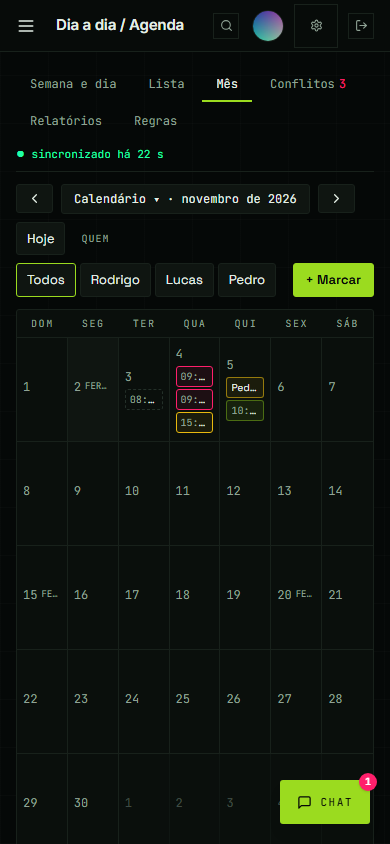
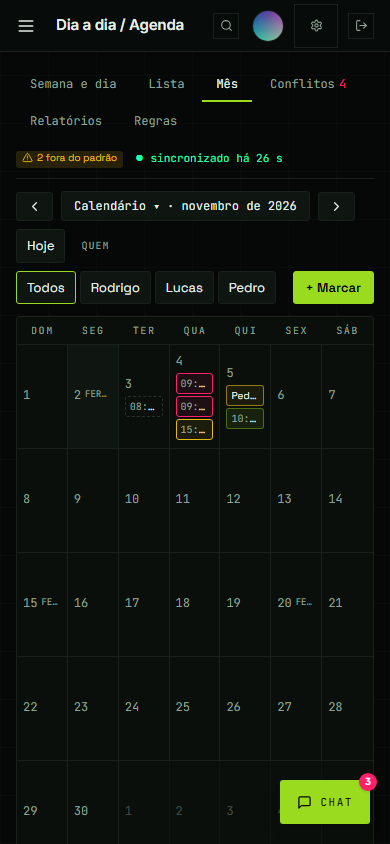
Agenda v2 · e2e de dia: o desfecho pelo que o Google recebeu, o volume atípico registrado, o espelho refaz a janela depois do dublê zerado; RESULTADO com o achado do volume_atipico

diff --git a/homolog/RESULTADO-AGENDA-V2.md b/homolog/RESULTADO-AGENDA-V2.md
@@ -146,5 +146,6 @@ O autor tem de ser gente (usuário ativo sem papel de máquina). Conferir em Con
 - **Cada sócio compartilhar a agenda pessoal** com `operacao.root@gmail.com` como "ver só livre/ocupado" e escrever o e-mail dela em Regras (a regra do Rodrigo nasce com o Fechado ligado e sem e-mail).
 - **Conferir as regras e os ritos semeados**: janela, intervalo, trajeto, teto, bloqueio de quinta e substituto de cada sócio; **[a decidir] o horário da reunião de terça** (semeada às 08:00 com a marca `[a decidir]`: nada no repositório confirma; salvar o horário na tela tira a marca); limiares que o desenho não fixa e foram escolhidos na lane (teto: acima do limite é bloqueio e as duas últimas antes dele são atenção; fora da janela de trabalho e fim de semana são atenção); facultativos com um interruptor só.
 - **Ligar a sobrescrita da decisão 2** (§7) e decidir se a **janela da política** (08h a 20h) deve valer também para a agenda: fora dela, marcar pela tela vai para a fila.
+- **[a decidir] `volume_atipico` na agenda.** Medido na homologação em 30/10: depois de algumas rodadas de uso, três ou quatro marcações na mesma hora já passam do triplo da média por hora da capacidade, e a régua sobe o marcar (e o alterar) de R2 para R3: vai para a fila mesmo na tela e com a sobrescrita ligada. Numa manhã de agenda cheia isso acontece. É a régua de toda escrita do OS (`policy/sinais.service.ts`); se a casa quiser o clique valendo em rajada, é ajuste de política (o limite de volume ou a média que ele usa), não da agenda.
 - **Onda 4.**
 - **Feriados de 2028** em diante: só 2026 e 2027 foram semeados.
